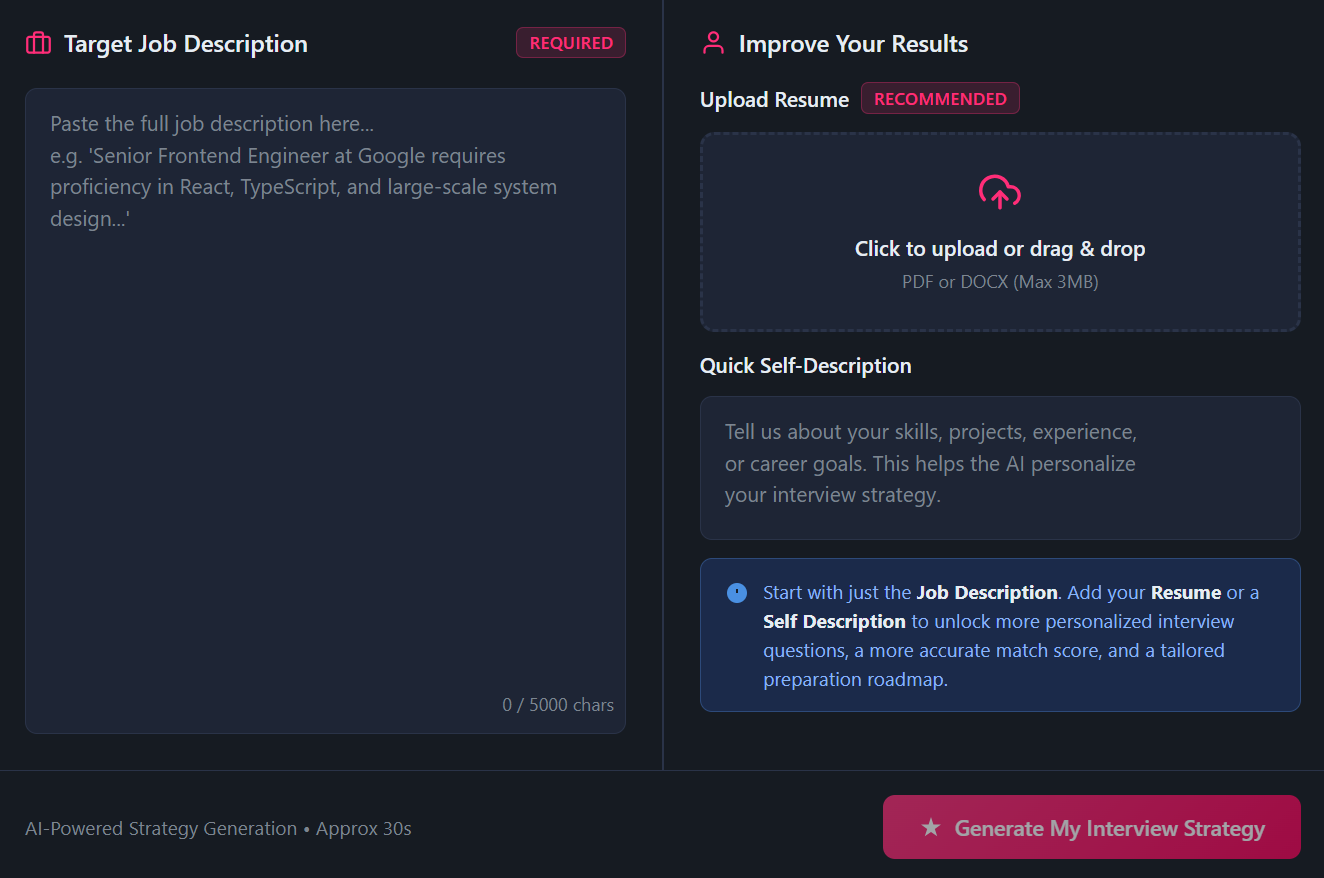
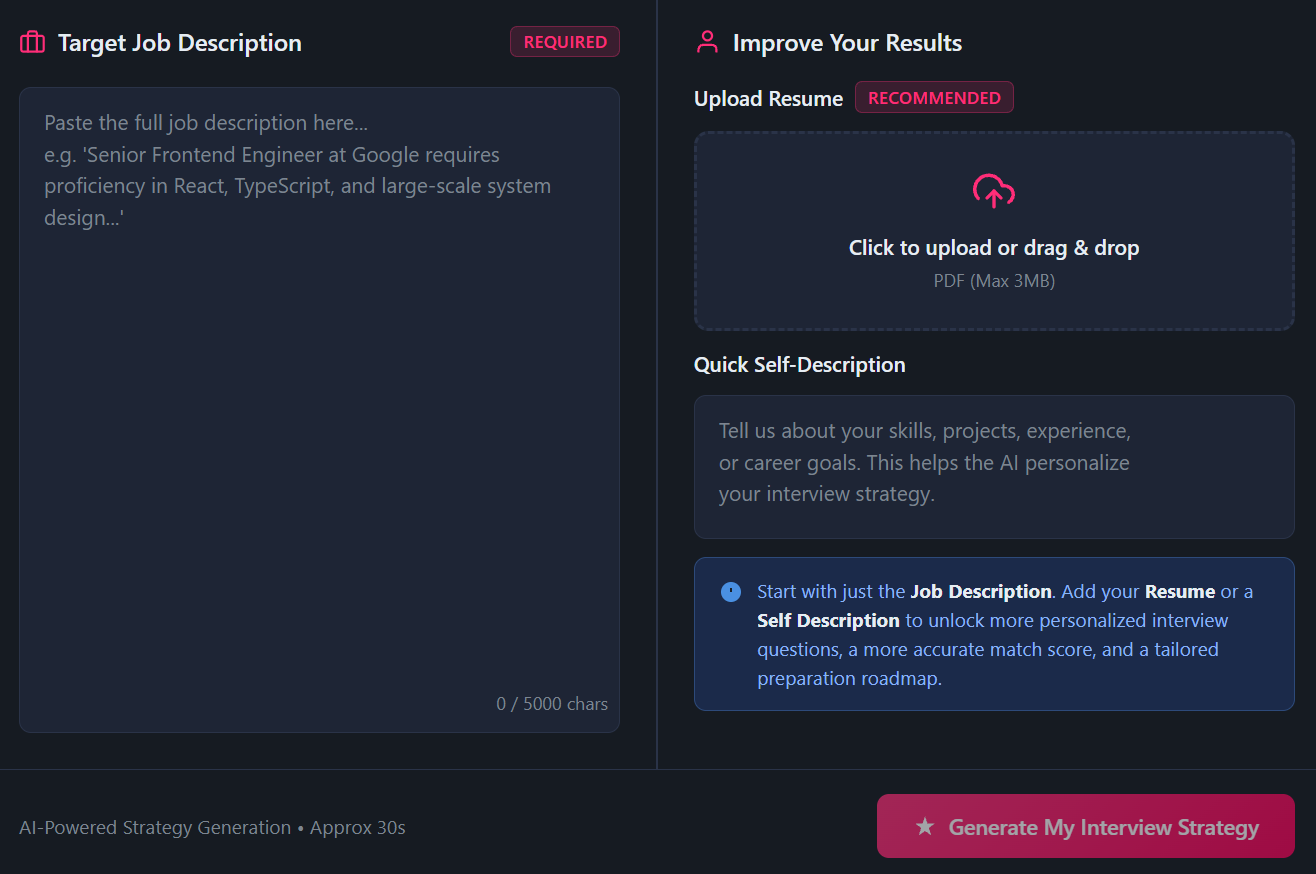
updated

diff --git a/Frontend/src/features/interview/pages/Dashboard.jsx b/Frontend/src/features/interview/pages/Dashboard.jsx
@@ -153,7 +153,7 @@ const Dashboard = () => {
                                             </p>
 
                                             <p className="dropzone__subtitle">
-                                                PDF or DOCX (Max 3MB)
+                                                PDF (Max 3MB)
                                             </p>
                                         </>
                                     )}
@@ -163,7 +163,7 @@ const Dashboard = () => {
                                         hidden
                                         type="file"
                                         id="resume"
-                                        accept=".pdf,.docx"
+                                        accept=".pdf"
                                         onChange={(e) => {
                                             const file = e.target.files[0];
 
